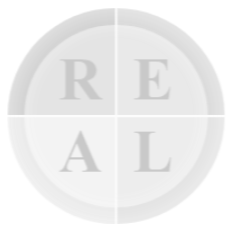
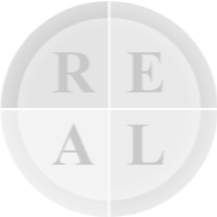
style: background white 적용

diff --git a/src/pages/ResultPage/index.jsx b/src/pages/ResultPage/index.jsx
@@ -363,23 +363,6 @@ function ResultPage({ userInfo, setUserInfo }) {
 
   const pdfRef = useRef(null);
   const converToPdf = async () => {
-    //1.html을 들고와서 canvas화
-    // const element = document.querySelector("#html");
-
-    // const element = (
-    //   <div className="pdfPages">
-    //     {/* {pages.map((page, index) => (
-    //       <div
-    //         key={index}
-    //         className="pdfPage"
-    //         style={{ fontFamily: "NanumSquareNeo" }}
-    //       >
-    //         {page}
-    //       </div>
-    //     ))} */}
-    //     123465
-    //   </div>
-    // );
     const element = pdfRef.current;
     if (element) {
       const canvas = await html2canvas(element);
@@ -513,8 +496,14 @@ function ResultPage({ userInfo, setUserInfo }) {
       {downloadPdf && (
         <div className="pdf-loading">
           <div className="text">
-            <PulseLoader color="var(--navy600)" />
+            <div className="loader">
+              <PulseLoader color="var(--navy600)" />
+            </div>
             다운로드 중입니다
+            <br />
+            PDF 파일에 문제가 있을 경우
+            <br />
+            다시 한번 다운받아 주세요
           </div>
         </div>
       )}

diff --git a/src/util.js b/src/util.js
@@ -281,7 +281,7 @@ export const formattedDate = `${new Date().getFullYear()}.${String(
 ).padStart(2, "0")}.${String(new Date().getDate()).padStart(2, "0")}`;
 
 export const getTableImage = (current) => {
-  return `tables/table_${current}.png`;
+  return `tables/table_${current.toLowerCase()}.png`;
 };
 
 export const getIconImage = (typename, isWhite) => {

diff --git a/src/pages/ResultPage/index.css b/src/pages/ResultPage/index.css
@@ -82,8 +82,11 @@
   flex-direction: column;
   justify-content: center;
   align-items: center;
-  height: 4rem;
-  justify-content: space-between;
+  text-align: center;
   font-size: 1.25rem;
   font-weight: bold;
+  line-height: 1.5;
+}
+.ResultPage .loader {
+  margin-bottom: 1.5rem;
 }

diff --git a/src/components/ResultPages/Introduction/Introduction/index.css b/src/components/ResultPages/Introduction/Introduction/index.css
@@ -1,6 +1,7 @@
 .Introduction {
   display: flex;
   flex-direction: column;
+  background-color: white;
 }
 .Introduction .container {
   padding: 1.5rem;
@@ -38,4 +39,5 @@
 }
 .Introduction .quarter-container img {
   width: 17rem;
+  border-radius: 100%;
 }

diff --git a/src/App.css b/src/App.css
@@ -61,7 +61,7 @@ img {
   box-shadow: 0 0 50px 0.2px rgb(0 0 0 / 0.075);
   /* animation: opacity 1s ease forwards; */
   color: black;
-  background-color: white;
+  /* background-color: white; */
 }
 .logo-container {
   display: flex;

diff --git a/src/components/ResultPages/MainType/ReportCover/index.css b/src/components/ResultPages/MainType/ReportCover/index.css
@@ -2,6 +2,7 @@
   display: flex;
   flex-direction: column;
   position: relative;
+  background-color: white;
 }
 .ReportCover .top-section {
   padding: 2.5rem;

diff --git a/src/components/ResultPages/CoverPage/index.css b/src/components/ResultPages/CoverPage/index.css
@@ -2,6 +2,7 @@
   display: flex;
   flex-direction: column;
   position: relative;
+  background-color: white;
 }
 .CoverPage .top-section {
   padding: 2.5rem;

diff --git a/src/components/ResultPages/MainType/WorkingStyle/index.css b/src/components/ResultPages/MainType/WorkingStyle/index.css
@@ -1,6 +1,7 @@
 .WorkingStyle {
   display: flex;
   flex-direction: column;
+  background-color: white;
 }
 .WorkingStyle .container {
   display: flex;

diff --git a/src/components/ResultPages/MainType/Justifying/index.css b/src/components/ResultPages/MainType/Justifying/index.css
@@ -1,6 +1,7 @@
 .Justifying {
   display: flex;
   flex-direction: column;
+  background-color: white;
 }
 .Justifying .container {
   padding: 1.5rem;

diff --git a/src/components/ResultPages/MainType/Motivation/index.css b/src/components/ResultPages/MainType/Motivation/index.css
@@ -1,6 +1,7 @@
 .Motivation {
   display: flex;
   flex-direction: column;
+  background-color: white;
 }
 .Motivation .container {
   padding: 1.5rem;

diff --git a/src/components/ResultPages/SubCharacter/ScoreGraph/index.css b/src/components/ResultPages/SubCharacter/ScoreGraph/index.css
@@ -1,6 +1,7 @@
 .ScoreGraph {
   display: flex;
   flex-direction: column;
+  background-color: white;
 }
 .ScoreGraph .container {
   display: flex;

diff --git a/src/components/ResultPages/AfterTest/SheetPage/index.css b/src/components/ResultPages/AfterTest/SheetPage/index.css
@@ -1,6 +1,7 @@
 .SheetPage {
   display: flex;
   flex-direction: column;
+  background-color: white;
 }
 .SheetPage .container {
   display: flex;
